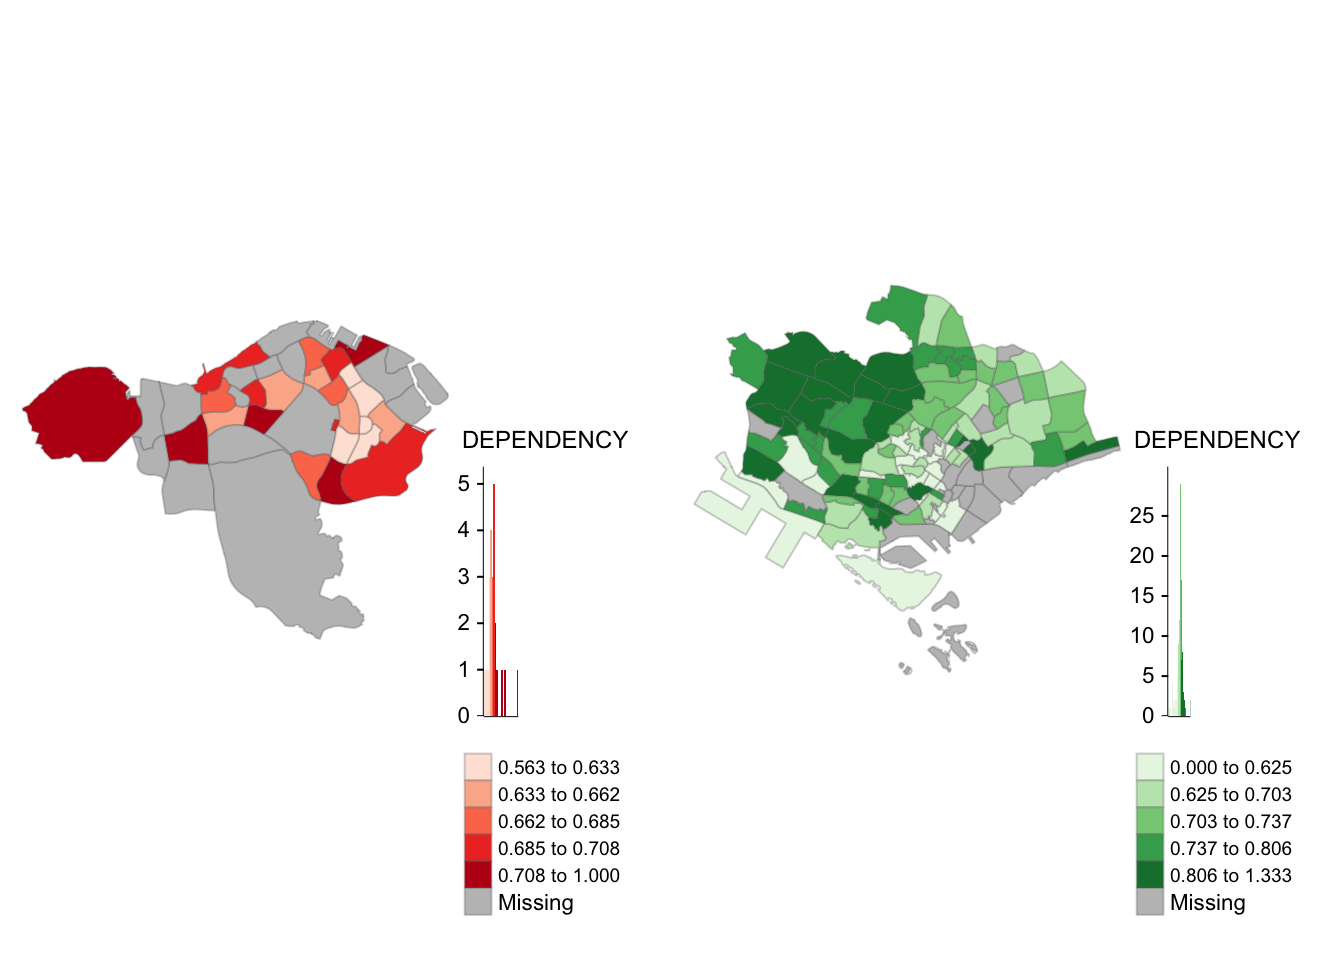
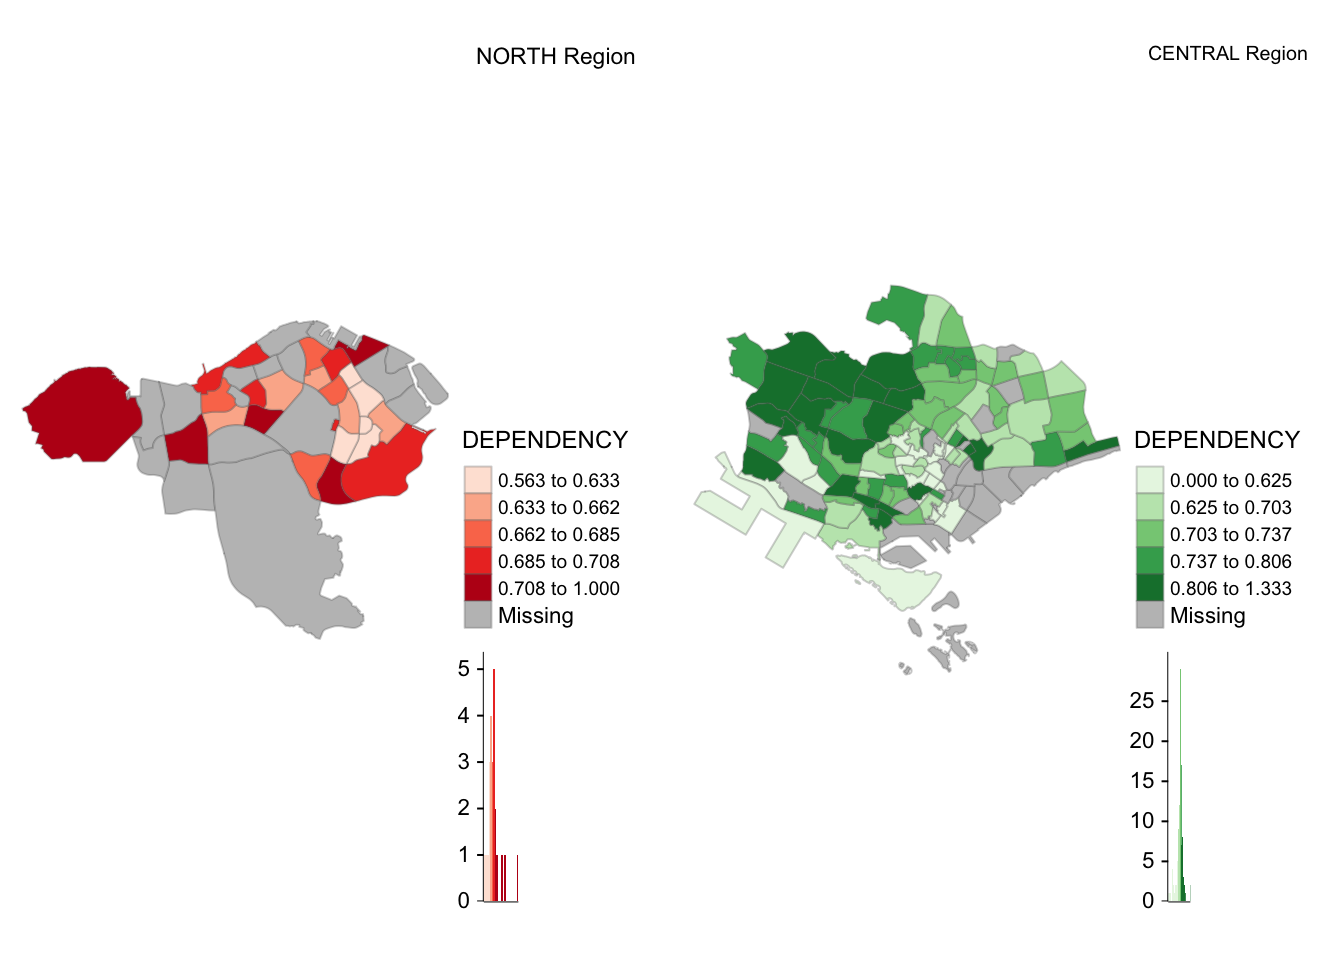
Fixed Relative Path Errors

diff --git a/_site/Hands-on_Exercise/Hands-on_Ex02/Hands-on_Ex02.html b/_site/Hands-on_Exercise/Hands-on_Ex02/Hands-on_Ex02.html
@@ -1026,37 +1026,39 @@ therefore deprecated</code></pre>
 </section>
 <section id="mapping-spatial-object-meeting-a-selection-criterion" class="level2">
 <h2 class="anchored" data-anchor-id="mapping-spatial-object-meeting-a-selection-criterion">8.0 Mapping Spatial Object Meeting a Selection Criterion</h2>
-<p>Instead of creating small multiple choropleth map, you can also use selection funtion to map spatial objects meeting the selection criterion.</p>
+<p>Instead of creating small multiple choropleth map, you can also use selection function to map spatial objects meeting the selection criterion.</p>
 <div class="cell">
-<div class="sourceCode cell-code" id="cb48"><pre class="sourceCode r code-with-copy"><code class="sourceCode r"><span id="cb48-1"><a href="#cb48-1" aria-hidden="true" tabindex="-1"></a>map_north <span class="ot">&lt;-</span> <span class="fu">tm_shape</span>(mpsz_pop2020[mpsz_pop2020<span class="sc">$</span>REGION_N<span class="sc">==</span><span class="st">"NORTH REGION"</span>, ])<span class="sc">+</span></span>
+<div class="sourceCode cell-code" id="cb48"><pre class="sourceCode r code-with-copy"><code class="sourceCode r"><span id="cb48-1"><a href="#cb48-1" aria-hidden="true" tabindex="-1"></a>map_north <span class="ot">&lt;-</span> <span class="fu">tm_shape</span>(mpsz_pop2020[mpsz_pop2020<span class="sc">$</span>REGION_N<span class="sc">==</span><span class="st">"NORTH REGION"</span>, ]) <span class="sc">+</span></span>
 <span id="cb48-2"><a href="#cb48-2" aria-hidden="true" tabindex="-1"></a>  <span class="fu">tm_fill</span>(<span class="st">"DEPENDENCY"</span>, </span>
 <span id="cb48-3"><a href="#cb48-3" aria-hidden="true" tabindex="-1"></a>          <span class="at">style =</span> <span class="st">"quantile"</span>, </span>
 <span id="cb48-4"><a href="#cb48-4" aria-hidden="true" tabindex="-1"></a>          <span class="at">palette =</span> <span class="st">"Reds"</span>, </span>
 <span id="cb48-5"><a href="#cb48-5" aria-hidden="true" tabindex="-1"></a>          <span class="at">legend.hist =</span> <span class="cn">TRUE</span>, </span>
-<span id="cb48-6"><a href="#cb48-6" aria-hidden="true" tabindex="-1"></a>          <span class="at">legend.is.portrait =</span> <span class="cn">TRUE</span>, </span>
-<span id="cb48-7"><a href="#cb48-7" aria-hidden="true" tabindex="-1"></a>          <span class="at">legend.hist.z =</span> <span class="fl">0.1</span>) <span class="sc">+</span> </span>
-<span id="cb48-8"><a href="#cb48-8" aria-hidden="true" tabindex="-1"></a>  <span class="fu">tm_layout</span>(<span class="at">legend.outside =</span> <span class="cn">TRUE</span>, </span>
-<span id="cb48-9"><a href="#cb48-9" aria-hidden="true" tabindex="-1"></a>            <span class="at">legend.height =</span> <span class="fl">0.45</span>, </span>
-<span id="cb48-10"><a href="#cb48-10" aria-hidden="true" tabindex="-1"></a>            <span class="at">legend.width =</span> <span class="fl">5.0</span>, </span>
-<span id="cb48-11"><a href="#cb48-11" aria-hidden="true" tabindex="-1"></a>            <span class="at">legend.position =</span> <span class="fu">c</span>(<span class="st">"right"</span>, <span class="st">"bottom"</span>), </span>
-<span id="cb48-12"><a href="#cb48-12" aria-hidden="true" tabindex="-1"></a>            <span class="at">frame =</span> <span class="cn">FALSE</span>)<span class="sc">+</span></span>
-<span id="cb48-13"><a href="#cb48-13" aria-hidden="true" tabindex="-1"></a>  <span class="fu">tm_borders</span>(<span class="at">alpha =</span> <span class="fl">0.3</span>)</span>
-<span id="cb48-14"><a href="#cb48-14" aria-hidden="true" tabindex="-1"></a></span>
-<span id="cb48-15"><a href="#cb48-15" aria-hidden="true" tabindex="-1"></a>map_central <span class="ot">&lt;-</span> <span class="fu">tm_shape</span>(mpsz_pop2020[mpsz_pop2020<span class="sc">$</span>REGION_N<span class="sc">==</span><span class="st">"CENTRAL REGION"</span>, ])<span class="sc">+</span></span>
-<span id="cb48-16"><a href="#cb48-16" aria-hidden="true" tabindex="-1"></a>  <span class="fu">tm_fill</span>(<span class="st">"DEPENDENCY"</span>, </span>
-<span id="cb48-17"><a href="#cb48-17" aria-hidden="true" tabindex="-1"></a>          <span class="at">style =</span> <span class="st">"quantile"</span>, </span>
-<span id="cb48-18"><a href="#cb48-18" aria-hidden="true" tabindex="-1"></a>          <span class="at">palette =</span> <span class="st">"Greens"</span>, </span>
-<span id="cb48-19"><a href="#cb48-19" aria-hidden="true" tabindex="-1"></a>          <span class="at">legend.hist =</span> <span class="cn">TRUE</span>, </span>
-<span id="cb48-20"><a href="#cb48-20" aria-hidden="true" tabindex="-1"></a>          <span class="at">legend.is.portrait =</span> <span class="cn">TRUE</span>, </span>
-<span id="cb48-21"><a href="#cb48-21" aria-hidden="true" tabindex="-1"></a>          <span class="at">legend.hist.z =</span> <span class="fl">0.1</span>) <span class="sc">+</span> </span>
-<span id="cb48-22"><a href="#cb48-22" aria-hidden="true" tabindex="-1"></a>  <span class="fu">tm_layout</span>(<span class="at">legend.outside =</span> <span class="cn">TRUE</span>, </span>
-<span id="cb48-23"><a href="#cb48-23" aria-hidden="true" tabindex="-1"></a>            <span class="at">legend.height =</span> <span class="fl">0.45</span>, </span>
-<span id="cb48-24"><a href="#cb48-24" aria-hidden="true" tabindex="-1"></a>            <span class="at">legend.width =</span> <span class="fl">5.0</span>, </span>
-<span id="cb48-25"><a href="#cb48-25" aria-hidden="true" tabindex="-1"></a>            <span class="at">legend.position =</span> <span class="fu">c</span>(<span class="st">"right"</span>, <span class="st">"bottom"</span>), </span>
-<span id="cb48-26"><a href="#cb48-26" aria-hidden="true" tabindex="-1"></a>            <span class="at">frame =</span> <span class="cn">FALSE</span>)<span class="sc">+</span></span>
-<span id="cb48-27"><a href="#cb48-27" aria-hidden="true" tabindex="-1"></a>  <span class="fu">tm_borders</span>(<span class="at">alpha =</span> <span class="fl">0.3</span>)</span>
-<span id="cb48-28"><a href="#cb48-28" aria-hidden="true" tabindex="-1"></a></span>
-<span id="cb48-29"><a href="#cb48-29" aria-hidden="true" tabindex="-1"></a><span class="fu">tmap_arrange</span>(map_north, map_central)</span></code><button title="Copy to Clipboard" class="code-copy-button"><i class="bi"></i></button></pre></div>
+<span id="cb48-6"><a href="#cb48-6" aria-hidden="true" tabindex="-1"></a>          <span class="at">legend.is.portrait =</span> <span class="cn">TRUE</span>) <span class="sc">+</span> </span>
+<span id="cb48-7"><a href="#cb48-7" aria-hidden="true" tabindex="-1"></a>  <span class="fu">tm_layout</span>(<span class="at">title =</span> <span class="st">'NORTH Region'</span>, </span>
+<span id="cb48-8"><a href="#cb48-8" aria-hidden="true" tabindex="-1"></a>            <span class="at">title.position =</span> <span class="fu">c</span>(<span class="st">'right'</span>, <span class="st">'top'</span>), </span>
+<span id="cb48-9"><a href="#cb48-9" aria-hidden="true" tabindex="-1"></a>            <span class="at">legend.outside =</span> <span class="cn">TRUE</span>, </span>
+<span id="cb48-10"><a href="#cb48-10" aria-hidden="true" tabindex="-1"></a>            <span class="at">legend.height =</span> <span class="fl">0.45</span>, </span>
+<span id="cb48-11"><a href="#cb48-11" aria-hidden="true" tabindex="-1"></a>            <span class="at">legend.width =</span> <span class="fl">5.0</span>, </span>
+<span id="cb48-12"><a href="#cb48-12" aria-hidden="true" tabindex="-1"></a>            <span class="at">legend.position =</span> <span class="fu">c</span>(<span class="st">"right"</span>, <span class="st">"bottom"</span>), </span>
+<span id="cb48-13"><a href="#cb48-13" aria-hidden="true" tabindex="-1"></a>            <span class="at">frame =</span> <span class="cn">FALSE</span>) <span class="sc">+</span></span>
+<span id="cb48-14"><a href="#cb48-14" aria-hidden="true" tabindex="-1"></a>  <span class="fu">tm_borders</span>(<span class="at">alpha =</span> <span class="fl">0.3</span>)</span>
+<span id="cb48-15"><a href="#cb48-15" aria-hidden="true" tabindex="-1"></a></span>
+<span id="cb48-16"><a href="#cb48-16" aria-hidden="true" tabindex="-1"></a>map_central <span class="ot">&lt;-</span> <span class="fu">tm_shape</span>(mpsz_pop2020[mpsz_pop2020<span class="sc">$</span>REGION_N<span class="sc">==</span><span class="st">"CENTRAL REGION"</span>, ]) <span class="sc">+</span></span>
+<span id="cb48-17"><a href="#cb48-17" aria-hidden="true" tabindex="-1"></a>  <span class="fu">tm_fill</span>(<span class="st">"DEPENDENCY"</span>, </span>
+<span id="cb48-18"><a href="#cb48-18" aria-hidden="true" tabindex="-1"></a>          <span class="at">style =</span> <span class="st">"quantile"</span>, </span>
+<span id="cb48-19"><a href="#cb48-19" aria-hidden="true" tabindex="-1"></a>          <span class="at">palette =</span> <span class="st">"Greens"</span>, </span>
+<span id="cb48-20"><a href="#cb48-20" aria-hidden="true" tabindex="-1"></a>          <span class="at">legend.hist =</span> <span class="cn">TRUE</span>, </span>
+<span id="cb48-21"><a href="#cb48-21" aria-hidden="true" tabindex="-1"></a>          <span class="at">legend.is.portrait =</span> <span class="cn">TRUE</span>) <span class="sc">+</span> </span>
+<span id="cb48-22"><a href="#cb48-22" aria-hidden="true" tabindex="-1"></a>  <span class="fu">tm_layout</span>(<span class="at">title =</span> <span class="st">'CENTRAL Region'</span>, </span>
+<span id="cb48-23"><a href="#cb48-23" aria-hidden="true" tabindex="-1"></a>            <span class="at">title.position =</span> <span class="fu">c</span>(<span class="st">'right'</span>, <span class="st">'top'</span>), </span>
+<span id="cb48-24"><a href="#cb48-24" aria-hidden="true" tabindex="-1"></a>            <span class="at">legend.outside =</span> <span class="cn">TRUE</span>, </span>
+<span id="cb48-25"><a href="#cb48-25" aria-hidden="true" tabindex="-1"></a>            <span class="at">legend.height =</span> <span class="fl">0.45</span>, </span>
+<span id="cb48-26"><a href="#cb48-26" aria-hidden="true" tabindex="-1"></a>            <span class="at">legend.width =</span> <span class="fl">5.0</span>, </span>
+<span id="cb48-27"><a href="#cb48-27" aria-hidden="true" tabindex="-1"></a>            <span class="at">legend.position =</span> <span class="fu">c</span>(<span class="st">"right"</span>, <span class="st">"bottom"</span>), </span>
+<span id="cb48-28"><a href="#cb48-28" aria-hidden="true" tabindex="-1"></a>            <span class="at">frame =</span> <span class="cn">FALSE</span>) <span class="sc">+</span></span>
+<span id="cb48-29"><a href="#cb48-29" aria-hidden="true" tabindex="-1"></a>  <span class="fu">tm_borders</span>(<span class="at">alpha =</span> <span class="fl">0.3</span>)</span>
+<span id="cb48-30"><a href="#cb48-30" aria-hidden="true" tabindex="-1"></a></span>
+<span id="cb48-31"><a href="#cb48-31" aria-hidden="true" tabindex="-1"></a><span class="fu">tmap_arrange</span>(map_north, map_central)</span></code><button title="Copy to Clipboard" class="code-copy-button"><i class="bi"></i></button></pre></div>
 <div class="cell-output cell-output-stderr">
 <pre><code>Warning in pre_process_gt(x, interactive = interactive, orig_crs =
 gm$shape.orig_crs): legend.width controls the width of the legend within a map.
